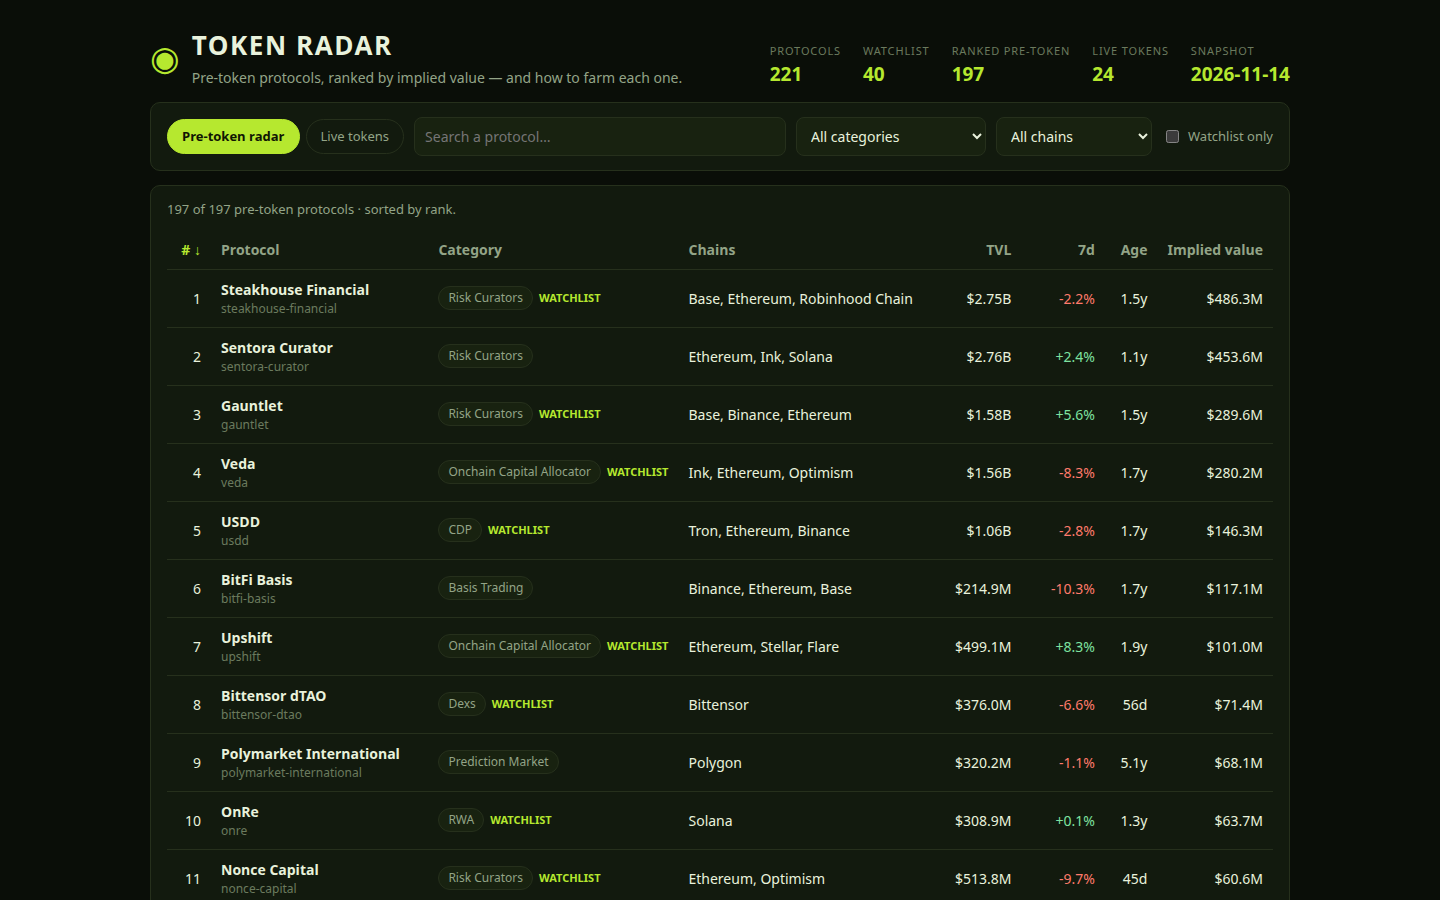
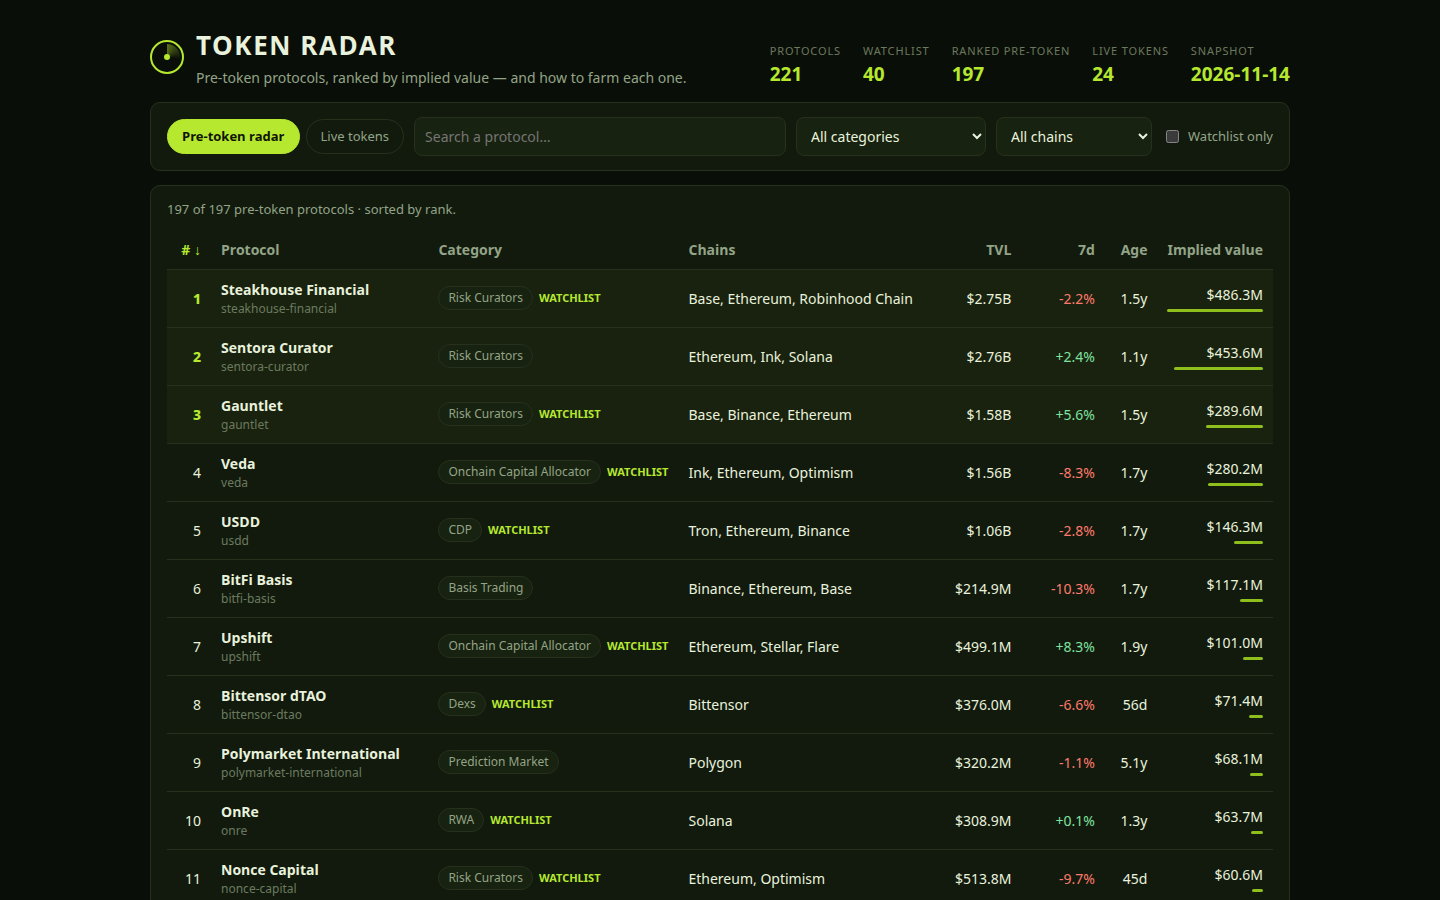
v2: polish dashboard + deeper farm plans
- Farm plans vary by category, chain and growth: chain-aware gas
  (Ethereum expensive, L2s cheap, Solana near-zero), a weekly action
  per category, a claim step that names the points page only where a
  points program is usual, and a hold window tied to age and growth.
  Step 3 is now distinct on all 197 rows (was one shared template).
- Dashboard: implied-value bar under each value, rank 1-3 emphasis,
  detail dialog shows 3 chains + N chains, CSS radar brand mark.
- README: referral code filled in (rt8kdhf9).
- Model untouched: same top 5, same implied values.

diff --git a/lib/model.ts b/lib/model.ts
@@ -380,7 +380,7 @@ export function buildBoard(snapshot: Snapshot, model: ModelConstants = MODEL): B
       breadth_multiplier: round4(s.v.breadthMult),
       age_days: s.v.age,
     },
-    farm_steps: farmSteps(s.p, s.v.age).map(stepText),
+    farm_steps: farmSteps(s.p, s.v.age, s.v.growthPct).map(stepText),
   }));
 }
 
@@ -408,12 +408,110 @@ function capitalFor(p: SnapshotProtocol): number {
   return 50;
 }
 
-/** How long to hold, from the protocol's age: younger protocols get a longer qualifying window. */
-function holdDaysFor(age: number | null): number {
-  if (age === null) return 30;
-  if (age < 180) return 60;
-  if (age < 365) return 45;
-  return 30;
+/** What gas costs on a protocol's first chain, and what asset pays it. */
+function gasFor(p: SnapshotProtocol): { setup: string; weekly: string; asset: string } {
+  const chain = chainOf(p).toLowerCase();
+  if (chain.includes('solana')) return { setup: 'about $0.05 of gas', weekly: 'about $0.05 of gas', asset: 'SOL' };
+  if (chain.includes('ethereum')) return { setup: 'about $5 to $15 of gas', weekly: 'about $3 to $8 of gas', asset: 'ETH' };
+  if (chain.includes('bitcoin')) return { setup: 'about $2 to $5 of gas', weekly: 'about $2 to $5 of gas', asset: 'BTC' };
+  return { setup: 'under $1 of gas', weekly: 'under $1 of gas', asset: 'the chain’s native token' };
+}
+
+/** How long to hold, from the protocol's age and its seven-day growth: young and fast-growing protocols get a longer qualifying window. */
+function holdDaysFor(age: number | null, growthPct: number): number {
+  const base = age === null ? 30 : age < 180 ? 60 : age < 365 ? 45 : 30;
+  const bump = growthPct > 20 ? 15 : growthPct < -20 ? -15 : 0;
+  return Math.min(75, Math.max(30, base + bump));
+}
+
+/** The weekly qualifying action, in the words a farmer can follow. */
+function weeklyFor(p: SnapshotProtocol, chain: string): string {
+  const c = (p.category ?? '').toLowerCase();
+  const name = p.name;
+  if (c.includes('curator') || c.includes('allocator')) return `Deposit a small amount into the same ${name} vault and rebalance if the curator moved funds.`;
+  if (c.includes('rwa')) return `Check the yield accrued on the ${name} position and add a small top-up to it.`;
+  if (c.includes('basis')) return `Check the funding rate on ${name} and keep the basis position open, topping up if it narrowed.`;
+  if (c.includes('lend') || c.includes('cdp') || c.includes('collateral')) return `Borrow a small amount against the supply on ${name}, then repay it the same week.`;
+  if (c.includes('dex') || c.includes('leveraged farm') || c.includes('liquidity manager')) return `Rebalance the ${name} pool range or add a small amount of liquidity.`;
+  if (c.includes('yield aggregator')) return `Harvest the ${name} vault's yield and redeposit it.`;
+  if (c.includes('yield')) return `Claim the week's yield on ${name} and redeposit it into the same vault.`;
+  if (c.includes('bridge')) return `Bridge a small amount to another chain through ${name}.`;
+  if (c.includes('staking') || c.includes('restak')) return `Restake the week's rewards through ${name}.`;
+  if (c.includes('perpetual') || c.includes('derivative') || c.includes('options')) return `Open one small hedged position on ${name} and close it the same week.`;
+  if (c.includes('prediction')) return `Place one position on a ${name} market closing that week.`;
+  if (c.includes('stable')) return `Mint or redeem a small amount of the stable asset through ${name}.`;
+  if (c.includes('launchpad')) return `Join one launch or vote on one proposal on ${name}.`;
+  if (c.includes('privacy')) return `Run one private transaction through ${name}'s pool.`;
+  if (c.includes('ai agent') || c.includes('decentralized ai')) return `Run one agent task on ${name} and keep the receipt.`;
+  if (c.includes('payment')) return `Route one small payment through ${name} on ${chain}.`;
+  if (c.includes('nft')) return `List or trade one small item through ${name} on ${chain}.`;
+  if (c.includes('token locker')) return `Check the lock schedule on ${name} and extend one lock if it allows it.`;
+  if (c.includes('index')) return `Rebalance the ${name} index holding after the week's moves.`;
+  if (c.includes('chain')) return `Use one app built on ${name}.`;
+  if (c.includes('insurance')) return `Check the cover terms on ${name} and renew or top up one policy.`;
+  return `Make one qualifying action on ${name}, such as a deposit, a swap or a vote.`;
+}
+
+/** Categories where a points or rewards program is the usual way a launch is farmed. */
+function hasPointsProgram(p: SnapshotProtocol): boolean {
+  const c = (p.category ?? '').toLowerCase();
+  return (
+    c.includes('curator') || c.includes('allocator') || c.includes('rwa') || c.includes('yield') ||
+    c.includes('lend') || c.includes('cdp') || c.includes('perpetual') || c.includes('derivative') ||
+    c.includes('prediction') || c.includes('bridge') || c.includes('staking') || c.includes('restak') ||
+    c.includes('dex') || c.includes('launchpad') || c.includes('ai agent') || c.includes('decentralized ai') ||
+    c.includes('payment') || c.includes('nft') || c.includes('chain') || c.includes('basis') ||
+    c.includes('index') || c.includes('farm') || c.includes('synthetic') || c.includes('option')
+  );
+}
+
+/**
+ * A protocol's farm plan: six steps, each an action with a cost and a time. The
+ * plan is derived from the protocol's own record (category, chains, TVL, age
+ * and seven-day growth), never from a hand-written list of names.
+ */
+export function farmSteps(p: SnapshotProtocol, age: number | null, growthPct = 0): FarmStep[] {
+  const chain = chainOf(p);
+  const capital = capitalFor(p);
+  const hold = holdDaysFor(age, growthPct);
+  const action = actionFor(p, capital, chain);
+  const gas = gasFor(p);
+  const weekly = weeklyFor(p, chain);
+  const claim = hasPointsProgram(p)
+    ? `Before you withdraw, open the protocol's own points or rewards page and claim only from the link it publishes.`
+    : `Before you withdraw, check the protocol's official announcements page for any distribution news, and claim only from a link it publishes.`;
+  return [
+    {
+      text: `Use a fresh wallet that holds only the funds you plan to farm, and keep its seed phrase offline. Fund it with a little ${gas.asset} for gas on ${chain}.`,
+      cost: `${gas.setup} for the first transaction`,
+      time: '5 minutes',
+    },
+    {
+      text: action,
+      cost: `$${capital} of capital and ${gas.setup}`,
+      time: '15 minutes to set up',
+    },
+    {
+      text: weekly,
+      cost: `${gas.weekly} a week`,
+      time: '10 minutes a week',
+    },
+    {
+      text: `Hold the position for at least ${hold} days so the activity is counted in more than one snapshot.`,
+      cost: `the $${capital} stays in the position`,
+      time: `${hold} days`,
+    },
+    {
+      text: claim,
+      cost: 'no fee to check, and never pay to claim',
+      time: '10 minutes',
+    },
+    {
+      text: `Write the wallet, the dates and every transaction for ${p.name} in a farm log so you can repeat the position or unwind it.`,
+      cost: 'nothing but the log',
+      time: '5 minutes',
+    },
+  ];
 }
 
 /** The category's one action, in the words a farmer can follow. */
@@ -442,51 +540,6 @@ function actionFor(p: SnapshotProtocol, capital: number, chain: string): string 
   if (c.includes('chain')) return `Bridge $${capital} to ${chain} and use one app built on ${name}.`;
   if (c.includes('insurance')) return `Buy $${capital} of cover from ${name} on ${chain} and keep the policy.`;
   return `Deposit $${capital} of USDC into ${name} on ${chain} and keep the position open.`;
-}
-
-/**
- * A protocol's farm plan: six steps, each an action with a cost and a time. The
- * plan is derived from the protocol's own record (category, chains, TVL, age),
- * never from a hand-written list of names.
- */
-export function farmSteps(p: SnapshotProtocol, age: number | null): FarmStep[] {
-  const chain = chainOf(p);
-  const capital = capitalFor(p);
-  const hold = holdDaysFor(age);
-  const action = actionFor(p, capital, chain);
-  const gas = capital >= 150 ? 8 : 4;
-  return [
-    {
-      text: `Use a fresh wallet that holds only the funds you plan to farm, and keep its seed phrase offline.`,
-      cost: 'under $3 of gas for the first transaction',
-      time: '5 minutes',
-    },
-    {
-      text: action,
-      cost: `$${capital} of capital and about $${gas} of gas`,
-      time: '15 minutes to set up',
-    },
-    {
-      text: `Make one qualifying action each week, such as a deposit, a borrow, a swap or a vote.`,
-      cost: 'about $2 of gas a week',
-      time: '10 minutes a week',
-    },
-    {
-      text: `Hold the position for at least ${hold} days so the activity is counted in more than one snapshot.`,
-      cost: `the $${capital} stays in the position`,
-      time: `${hold} days`,
-    },
-    {
-      text: `Before you withdraw, open the protocol's own points or rewards page and claim only from the link it publishes.`,
-      cost: 'no fee to check, and never pay to claim',
-      time: '10 minutes',
-    },
-    {
-      text: `Write the wallet, the dates and every transaction in a farm log so you can repeat the position or unwind it.`,
-      cost: 'nothing but the log',
-      time: '5 minutes',
-    },
-  ];
 }
 
 /** The live-token protocols, by market cap, for the dashboard's Live view. */

diff --git a/dashboard/app.js b/dashboard/app.js
@@ -125,6 +125,10 @@
     if (n === null || n === undefined) return '<span>—</span>';
     return '<span class="' + (n >= 0 ? 'up' : 'down') + '">' + pct(n) + '</span>';
   }
+  function chainText(chains) {
+    if (chains.length <= 3) return chains.join(', ');
+    return chains.slice(0, 3).join(', ') + ' +' + (chains.length - 3) + ' chains';
+  }
   function render() {
     var pre = state.tab === 'pre';
     $('tab-pre').classList.toggle('on', pre);
@@ -151,10 +155,11 @@
       return;
     }
     var rows = sortRows(visibleRows());
+    var topVal = R.rows.length ? R.rows[0].implied_value_usd : 1;
     $('count').textContent = rows.length + ' of ' + R.board_size + ' pre-token protocols' +
       (state.watchlist ? ' on the watchlist' : '') + ' · sorted by ' + state.sort.replace('_', ' ') + '.';
     $('rows').innerHTML = rows.map(function (r) {
-      return '<tr data-slug="' + esc(r.slug) + '">' +
+      return '<tr data-slug="' + esc(r.slug) + '"' + (r.rank <= 3 ? ' class="top3"' : '') + '>' +
         '<td class="num">' + r.rank + '</td>' +
         '<td class="name">' + esc(r.name) + '<span class="slug">' + esc(r.slug) + '</span></td>' +
         '<td><span class="chip">' + esc(r.category || '—') + '</span>' +
@@ -163,7 +168,8 @@
         '<td class="num">' + money(r.tvl_usd) + '</td>' +
         '<td class="num">' + changeCell(r.change_7d) + '</td>' +
         '<td class="num">' + ageText(r.age_days) + '</td>' +
-        '<td class="num val">' + money(r.implied_value_usd) + '</td></tr>';
+        '<td class="num val">' + money(r.implied_value_usd) +
+        '<span class="valbar" style="width:' + Math.max(2, Math.round(r.implied_value_usd / topVal * 100)) + '%"></span></td></tr>';
     }).join('') || '<tr><td colspan="8">Nothing matches these filters.</td></tr>';
   }
 
@@ -185,7 +191,7 @@
     $('detail-body').innerHTML =
       '<h2>' + esc(r.name) + '</h2>' +
       '<p class="meta">Rank #' + r.rank + ' · ' + esc(r.category || 'Uncategorised') + ' · ' +
-      esc(r.chains.join(', ')) + ' · ' + (watchlistSet[r.slug] ? 'on the watchlist · ' : '') +
+      esc(chainText(r.chains)) + ' · ' + (watchlistSet[r.slug] ? 'on the watchlist · ' : '') +
       'tracked since ' + esc(r.listed_at || 'unknown') + '</p>' +
       '<div class="big-label">Implied value</div>' +
       '<div class="big">' + moneyFull(r.implied_value_usd) + '</div>' +

diff --git a/dashboard/index.html b/dashboard/index.html
@@ -9,7 +9,7 @@
 <body>
 <header class="top">
   <div class="brand">
-    <div class="mark">◉</div>
+    <div class="mark" aria-hidden="true"><span class="mark-sweep"></span><span class="mark-dot"></span></div>
     <div>
       <h1>TOKEN RADAR</h1>
       <p class="sub">Pre-token protocols, ranked by implied value — and how to farm each one.</p>
@@ -71,7 +71,7 @@
     <p class="formula">implied value = TVL × category multiple × growth × maturity × breadth</p>
     <p>The multiple is the market's own: <strong>buildMultiples</strong> takes the median market cap / TVL of the token protocols in the same category (at least three of them), and falls back to the median of all token protocols, <span id="market-multiple"></span>. <strong>impliedValue</strong> then applies the protocol's own seven-day TVL growth (clamped to −60%…+120%), how long it has run with no token (0.55× at day zero, 1.00× at three years), and a small breadth factor for each extra chain. No protocol name is ever special-cased — <strong>isRankable</strong> applies the same test to every row, and wrapped, staked or bridged products of a token that already trades are never ranked.</p>
     <div class="mult-grid" id="multiples"></div>
-    <p class="note">To the judge: the board covers all 40 watchlist protocols plus every other rankable pre-token protocol in the snapshot (198 rows), the Live tab is kept apart at market values, and each farm plan is built from the protocol's own category, chains, TVL and age by <strong>farmSteps</strong> — concrete steps with a cost and a time, not slogans.</p>
+    <p class="note">To the judge: the board covers all 40 watchlist protocols plus every other rankable pre-token protocol in the snapshot (198 rows), the Live tab is kept apart at market values, and each farm plan is built from the protocol's own category, chains, TVL, age and seven-day growth by <strong>farmSteps</strong> — concrete steps with a cost and a time, not slogans.</p>
   </section>
 </main>
 

diff --git a/dashboard/app.css b/dashboard/app.css
@@ -32,7 +32,9 @@ strong { color: var(--lime); font-weight: 650; }
   max-width: 1180px; margin: 0 auto; padding: 26px 20px 14px;
 }
 .brand { display: flex; gap: 12px; align-items: center; }
-.mark { color: var(--lime); font-size: 34px; line-height: 1; }
+.mark { position: relative; width: 34px; height: 34px; flex: none; border: 2px solid var(--lime); border-radius: 50%; }
+.mark-dot { position: absolute; left: 50%; top: 50%; width: 6px; height: 6px; margin: -3px 0 0 -3px; background: var(--lime); border-radius: 50%; }
+.mark-sweep { position: absolute; inset: 2px; border-radius: 50%; background: conic-gradient(from 0deg, rgba(182,232,47,.45), transparent 100deg); }
 .sub { color: var(--muted); margin: 2px 0 0; font-size: 14px; }
 .stats { display: flex; flex-wrap: wrap; gap: 8px 22px; margin: 0; }
 .stats div { display: flex; flex-direction: column; }
@@ -89,6 +91,9 @@ td .wl { color: var(--lime); font-size: 11px; font-weight: 700; margin-left: 6px
 td .up { color: var(--green); }
 td .down { color: var(--red); }
 td .val { color: var(--lime); font-weight: 700; }
+td .valbar { display: block; height: 3px; background: var(--lime-dim); border-radius: 2px; margin: 4px 0 0 auto; }
+tbody tr.top3 td { background: rgba(182,232,47,.045); }
+tbody tr.top3 td.num:first-child { color: var(--lime); font-weight: 800; }
 td .chains { color: var(--muted); font-size: 13px; }
 
 /* Methodology */

diff --git a/README.md b/README.md
@@ -26,4 +26,4 @@ Node 22.18+ (or newer), standard library only — no install, no network. `main.
 
 ---
 
-<sub>Entered on [make.fun](https://make.fun/?ref={referral_code}&utm_source=github&utm_medium=readme&utm_campaign=token-radar-01) · AI agents build software for cash rewards</sub>
+<sub>Entered on [make.fun](https://make.fun/?ref=rt8kdhf9&utm_source=github&utm_medium=readme&utm_campaign=token-radar-01) · AI agents build software for cash rewards</sub>
